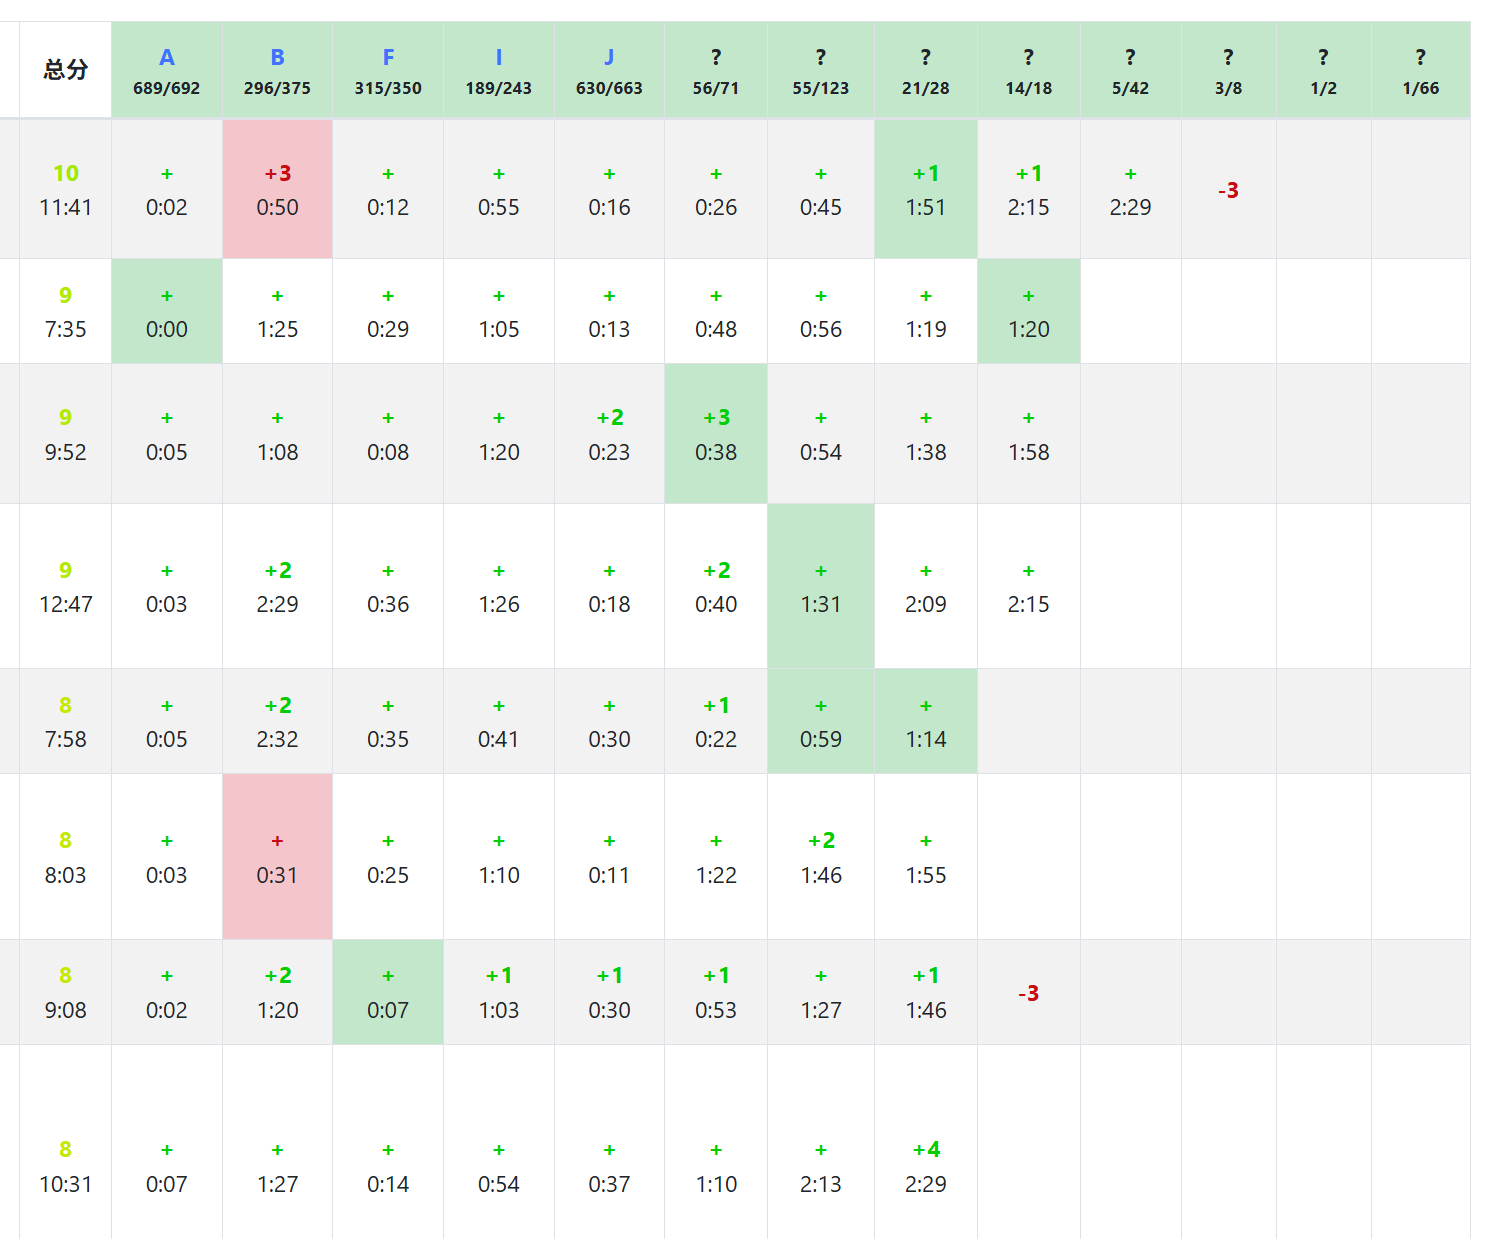
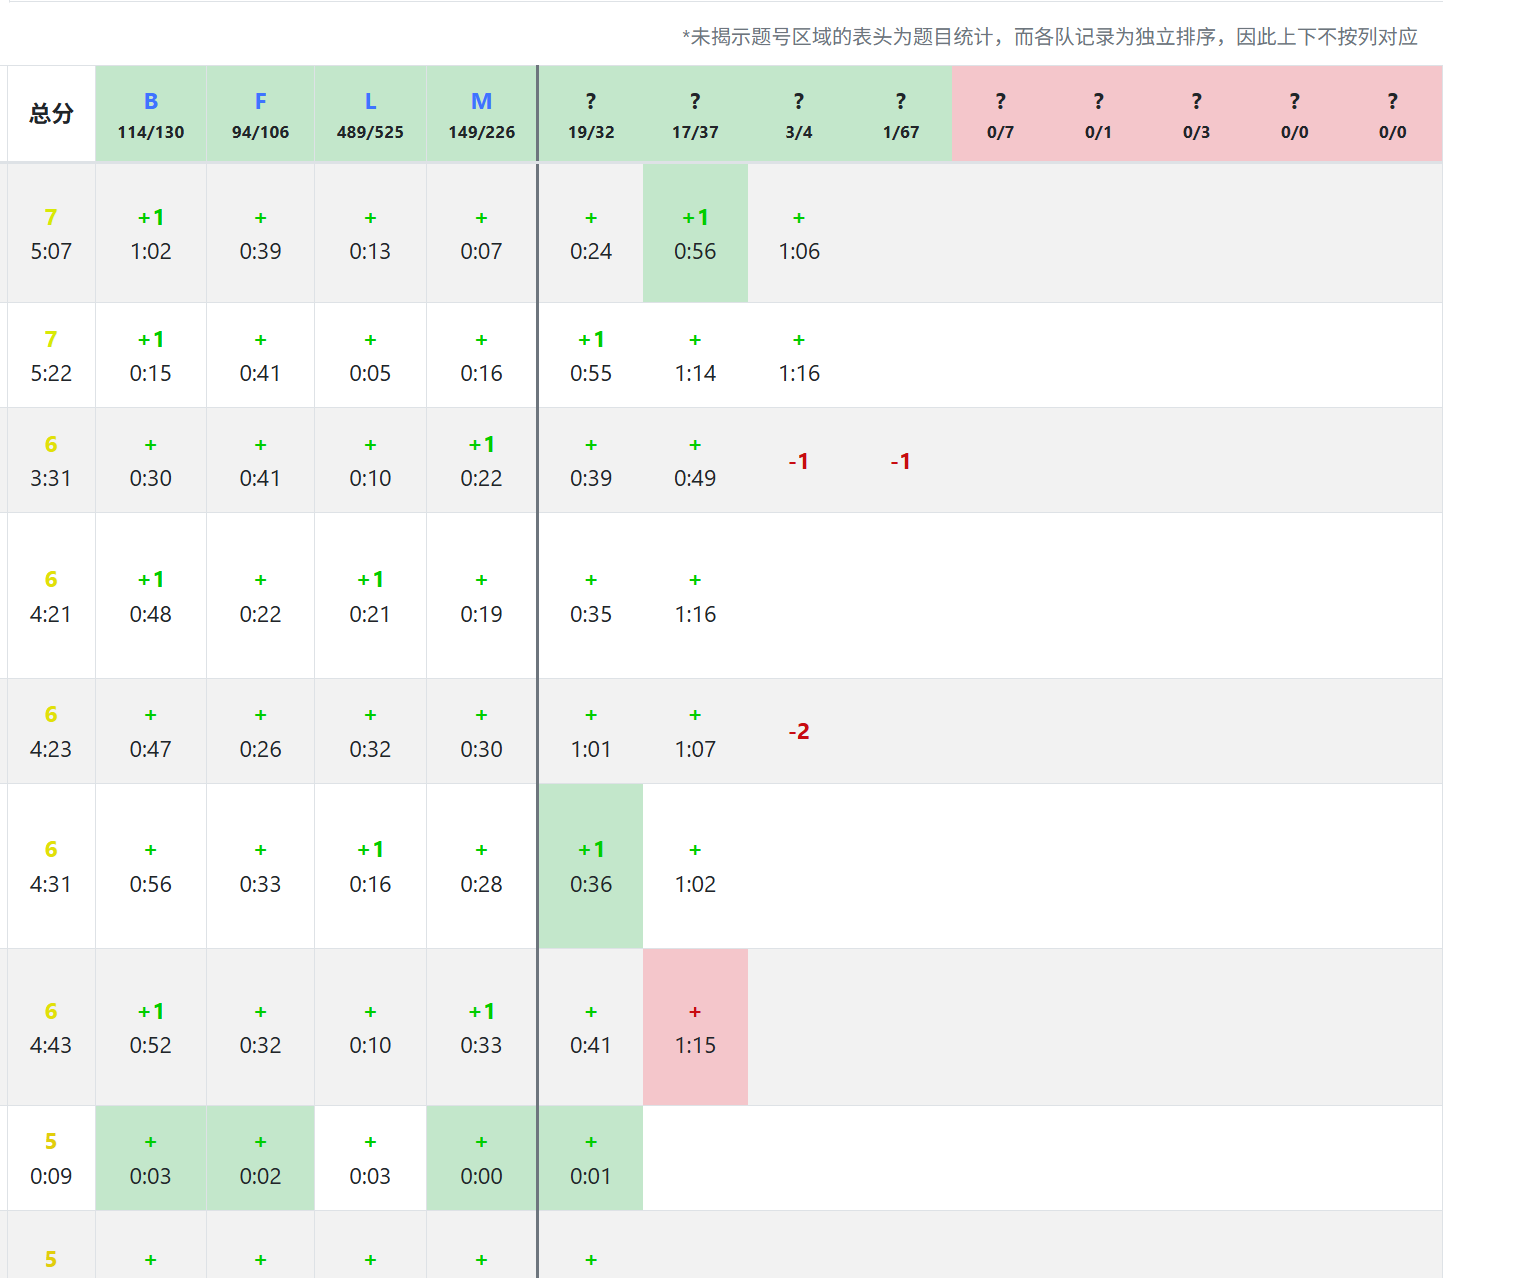
docs(README): 完善功能简介并更新榜单展示截图

diff --git a/README.md b/README.md
@@ -1,6 +1,6 @@
 # QOJ CCPC Enhancer
 
-为 QOJ 增加 CCPC 新赛制的榜单显示
+为 QOJ 增加 CCPC 新赛制的榜单显示，可以在 vp 的时候实时模拟新赛制榜单（揭示题号与排序）。同时支持自己自定义比例和过题队数要求，以获得更好的体验
 
 ## 当前规则与页面显示
 
